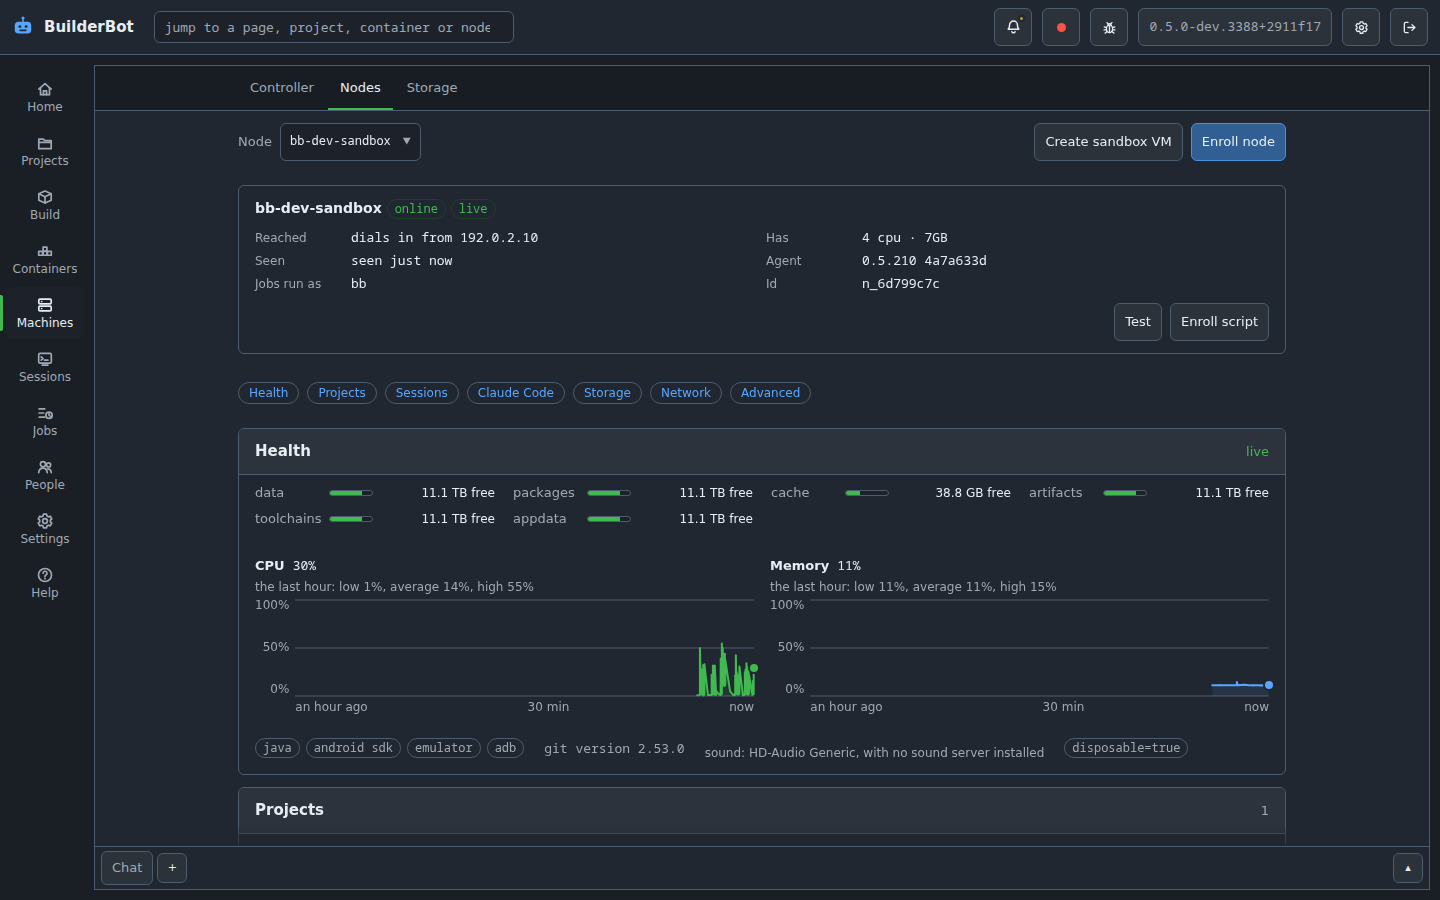
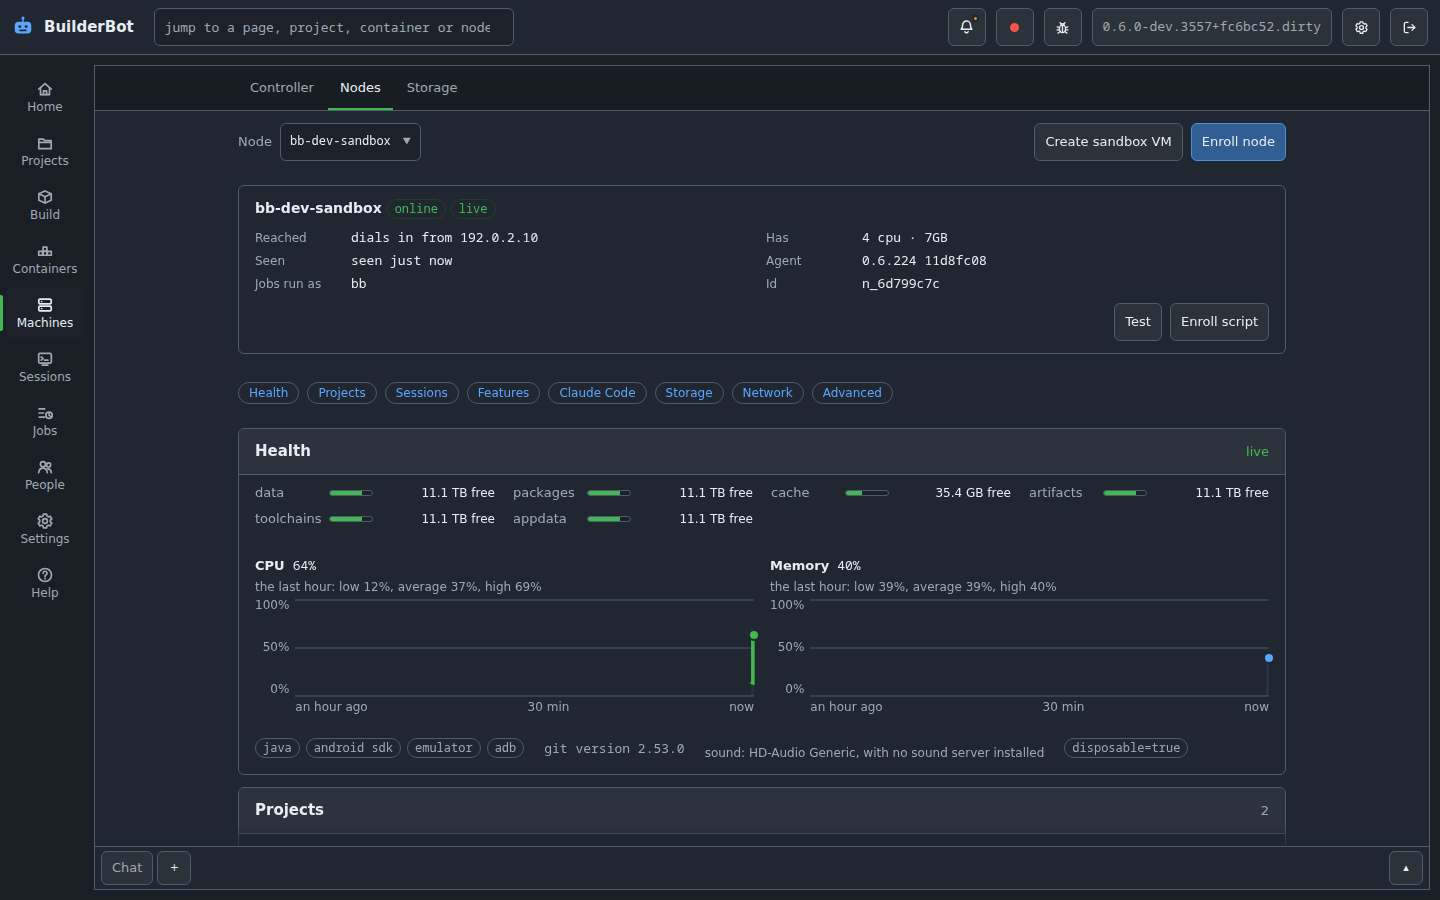
The README tells of VMs, a node's Features, Lock down and the tour, pins the 0.6 line, and shows the Containers and VMs pages, a node's Features and the tour, all retaken from a dev instance (R94)
Claude-Session: https://claude.ai/code/session_013CE7PtU6GkNJNxzoaE7duz

diff --git a/README.md b/README.md
@@ -52,12 +52,14 @@ your projects mounted straight in, and to grow from one machine to several.
   restart, pick the model and effort, and see at a glance which sessions need
   a restart to pick up a change.
 - **A page per project.** Its overview and house rules, roadmap, bug
-  tracker, git, tests, static analysis, artifacts, containers, wiki and
+  tracker, git, tests, static analysis, artifacts, containers, VMs, wiki and
   design, shared between you and every session that works there.
 - **Nodes that do the work.** Enroll a Linux machine or VM with one script.
   Each node carries its own toolchains (JDK, Android SDK, Flutter, Node,
   Python, Playwright and more), installed and updated from the Toolchains page
-  and kept on a store that survives the machine being rebuilt.
+  and kept on a store that survives the machine being rebuilt. A node's
+  Features section says what the machine has and installs more of it, a VM
+  host among them.
 - **Builds, tests and CI.** `bb build` and `bb test` run on the project's
   node, a test run is timed and recorded, and a node can be a self-hosted
   GitHub Actions runner.
@@ -66,10 +68,19 @@ your projects mounted straight in, and to grow from one machine to several.
   and release signing with keys no session ever sees.
 - **Containers and hosting.** A project's compose file becomes a dev
   instance with one click; hosting-only nodes run what a dev node built, and
-  an nginx per node puts a hostname and a certificate in front of it.
+  an nginx per node puts a hostname and a certificate in front of it. A
+  public box can take in only 80 and 443, and Lock down stops it and revokes
+  it in one press if it is ever taken over.
+- **Virtual machines.** A project's VMs on any node with KVM, made from
+  Ubuntu, Debian, Fedora, Rocky or Alpine, each on its own network, with
+  snapshots to go back to and a console in the dock. Ask a Claude session for
+  "a Debian 12 VM with 4 GB" and it makes one, where the project allows it;
+  a VM can even enroll itself as another node.
 - **People and permissions.** Accounts with roles, per-project access, and a
   dial for everything a session may do on its own (file bugs, add rules, run
   its container, sign a release): allowed, asked of a person, or refused.
+- **A tour of each page** the first time you open it, which you can skip
+  once for every page and bring back from About or your Profile.
 - **Logs you can read.** Every job's output, each node's own logs and the
   controller's diagnostics, kept for as long as the log policy says and
   readable by a session that has been granted them.
@@ -86,6 +97,14 @@ your projects mounted straight in, and to grow from one machine to several.
   </tr>
   <tr>
     <td colspan="2"><img src="docs/screenshots/toolchains.png" alt="The Toolchains page for a node"></td>
+  </tr>
+  <tr>
+    <td width="50%"><img src="docs/screenshots/containers.png" alt="The Containers page: each project's containers on a node"></td>
+    <td width="50%"><img src="docs/screenshots/vms.png" alt="The VMs page: a project's virtual machines with their state, address and snapshots"></td>
+  </tr>
+  <tr>
+    <td width="50%"><img src="docs/screenshots/features.png" alt="A node's Features section: VM host, Claude sessions, the SSH door and the rest, each with how it installs"></td>
+    <td width="50%"><img src="docs/screenshots/tour.png" alt="The first-use tour on Home, its card beside the rail it is about"></td>
   </tr>
   <tr>
     <td width="50%" align="center"><img src="docs/screenshots/phone-dashboard.png" width="80%" alt="Home on a phone"></td>
@@ -126,7 +145,7 @@ match:
 ```yaml
 services:
   builderbot:
-    image: ghcr.io/aquilaelabs/builderbot:0.5   # a release line; see Upgrading in docs/install.md
+    image: ghcr.io/aquilaelabs/builderbot:0.6   # a release line; see Upgrading in docs/install.md
     container_name: BuilderBot
     hostname: builderbot
     restart: unless-stopped
@@ -190,7 +209,7 @@ Everything else, from installing to the full command reference, is in
 - [How it works](docs/how-it-works.md), the overview, with a doc for each part
   of the dashboard: [projects](docs/projects.md), [a project's page](docs/notebook.md),
   [sessions](docs/sessions.md), [building](docs/building.md),
-  [toolchains](docs/toolchains.md), [containers](docs/containers.md),
+  [toolchains](docs/toolchains.md), [containers](docs/containers.md), [VMs](docs/vms.md),
   [machines](docs/machines.md) and [people](docs/people.md)
 - [Reference](docs/reference.md): settings, every `bb` command, Android signing
 - [Data and privacy](docs/privacy.md): what an install keeps and contacts; nothing is sent to us

diff --git a/docs/install.md b/docs/install.md
@@ -185,7 +185,7 @@ back, see [Upgrading](#upgrading). Compose: `docker compose pull && docker compo
 ## Upgrading
 
 **Pin a release, not `:latest`.** `:latest` follows the main branch between
-releases. Each release publishes its own image, `ghcr.io/aquilaelabs/builderbot:0.5.0`,
+releases. Each release publishes its own image, `ghcr.io/aquilaelabs/builderbot:0.6.0`,
 and `:0.5` for the newest release of that line; pin one of those in your
 compose file or template, and move it on when you choose to upgrade.
 
